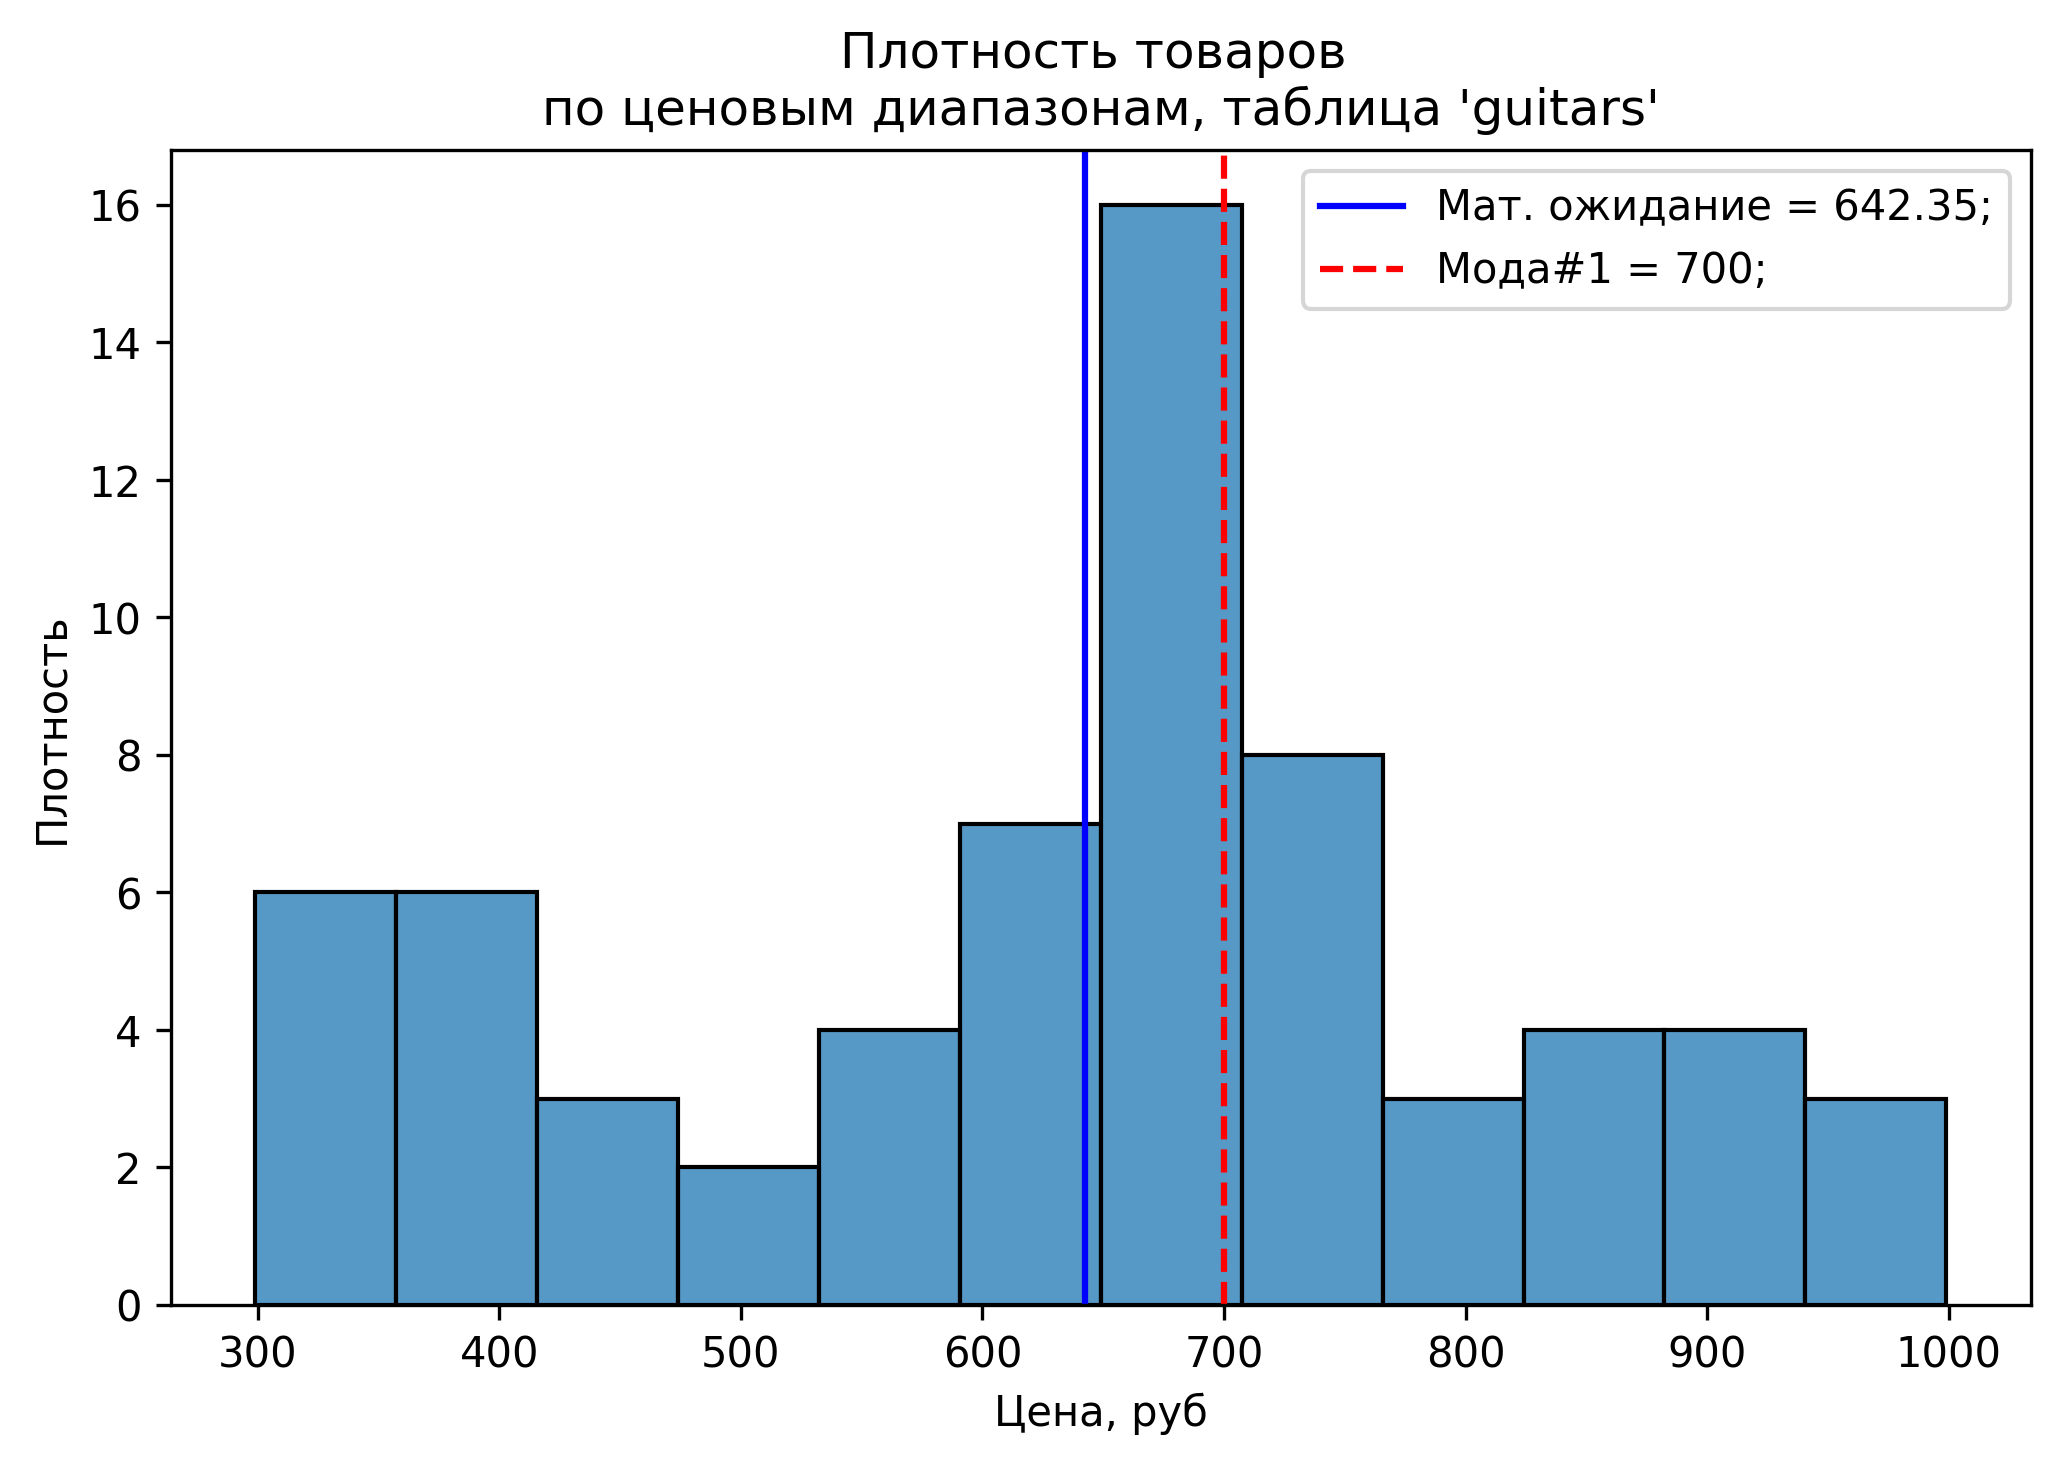
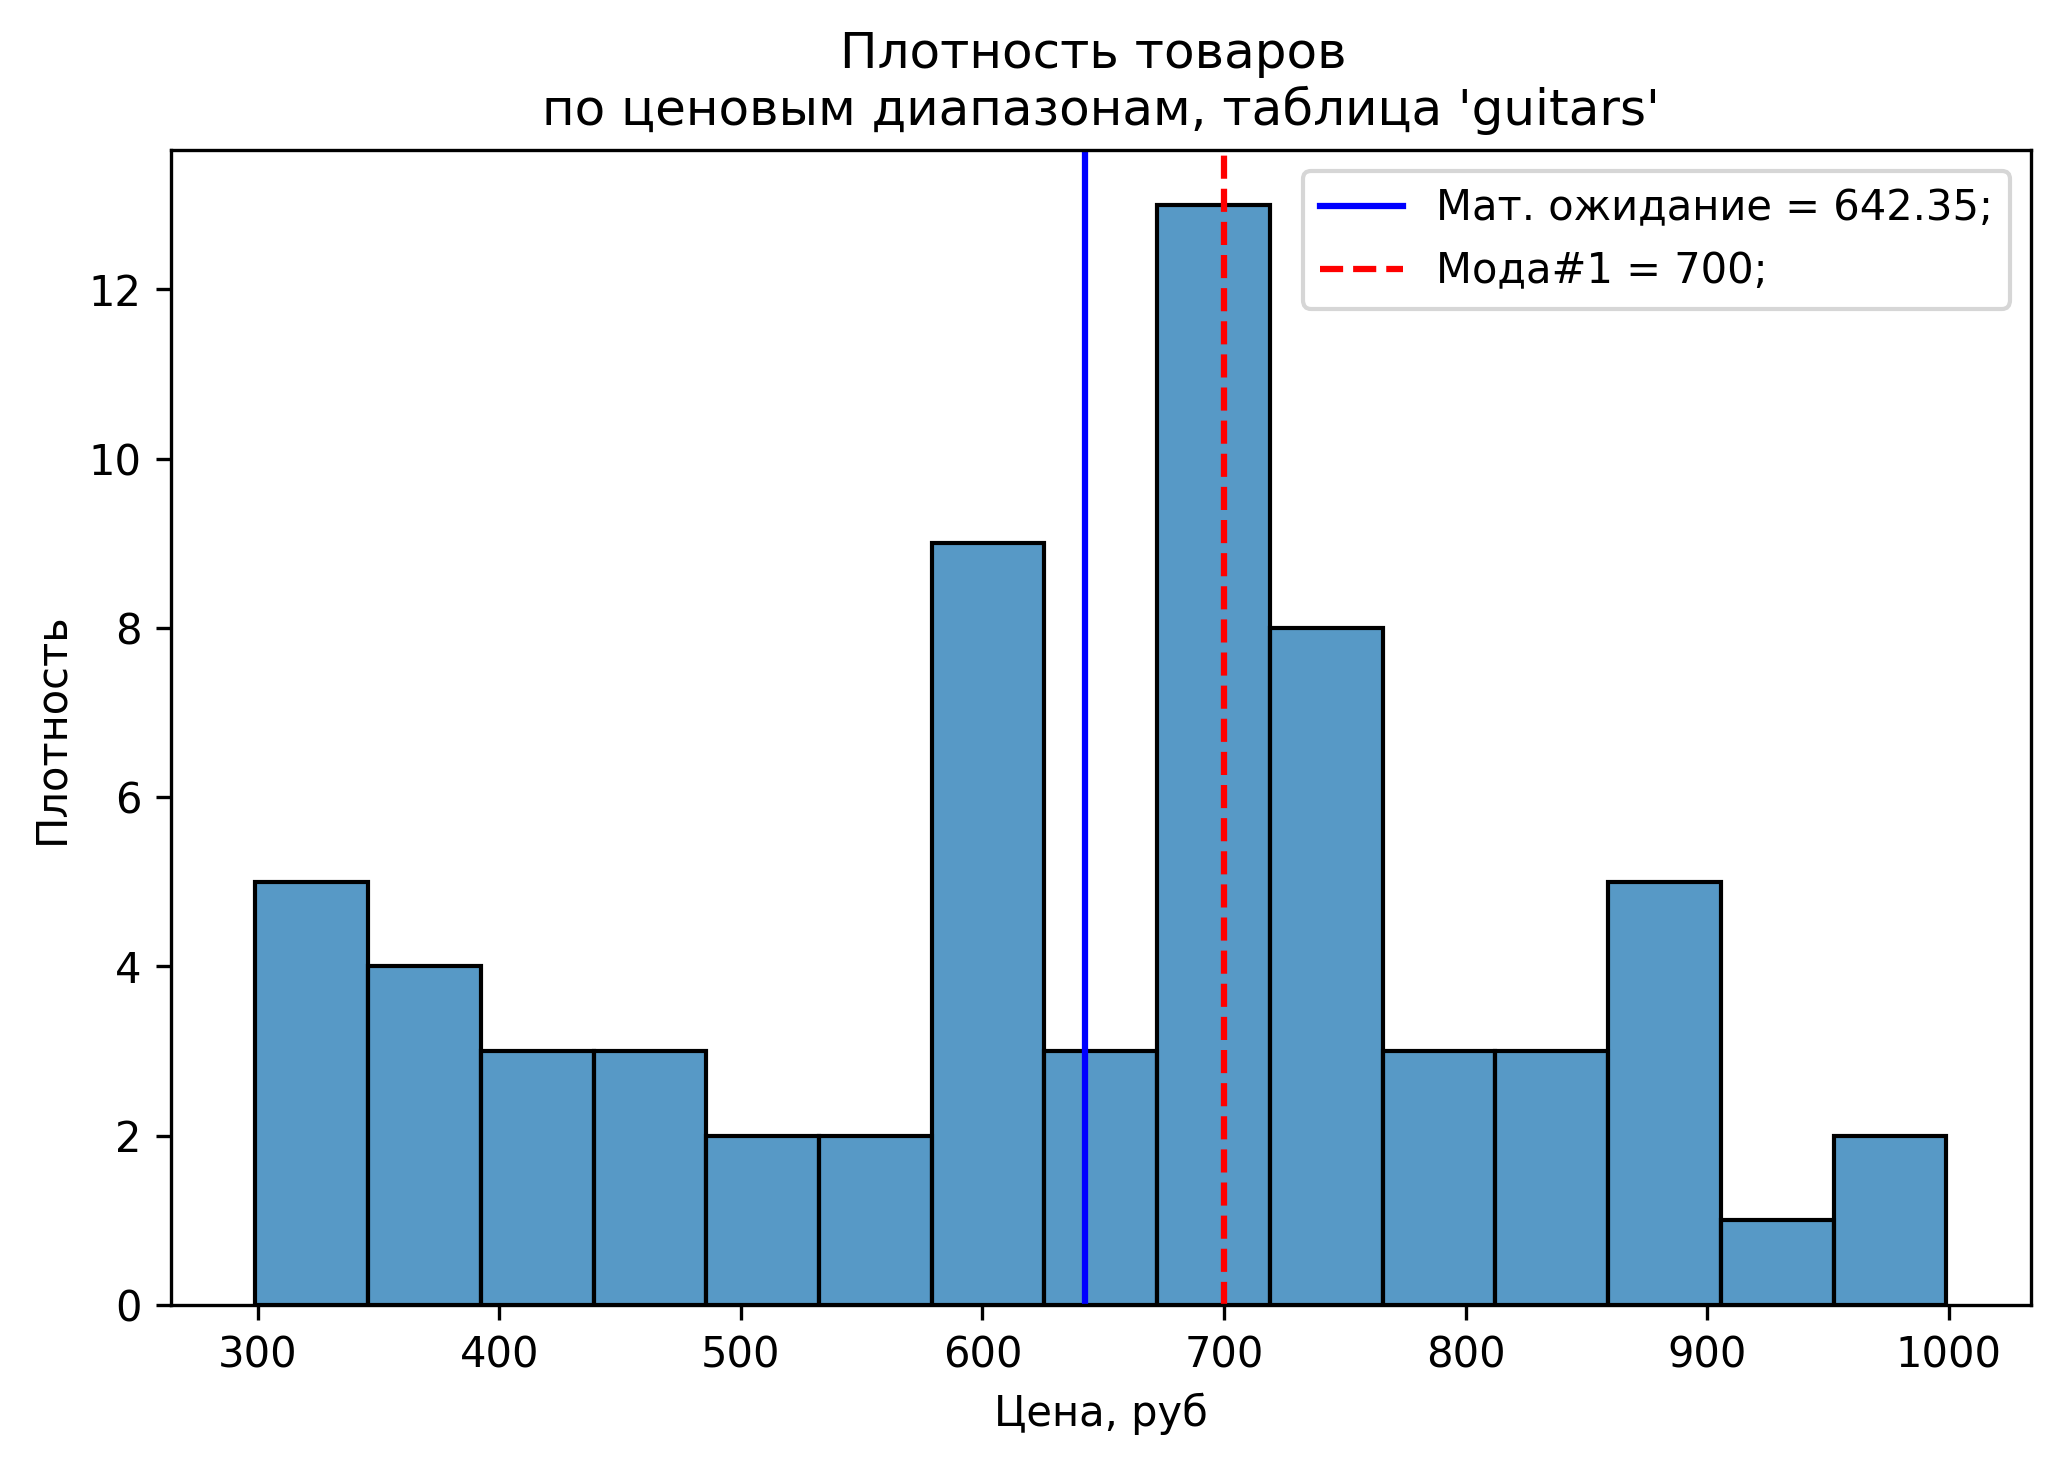
Последний коммит

diff --git a/stats.py b/stats.py
@@ -143,7 +143,7 @@ if __name__ == "__main__":
     # Show_dashboard(save=True, filename="my_dashboard.png")
     Goods_by_price(
                 "guitars", 
-                bins = 12, 
+                bins = 15, 
                 price_min=200, 
                 price_max=4000, 
                 save = True, 
@@ -151,7 +151,7 @@ if __name__ == "__main__":
                 )
     Goods_by_price(
                 "synthesizers", 
-                bins=12, 
+                bins=15, 
                 price_min=200, 
                 price_max=4000, 
                 save=True, 
